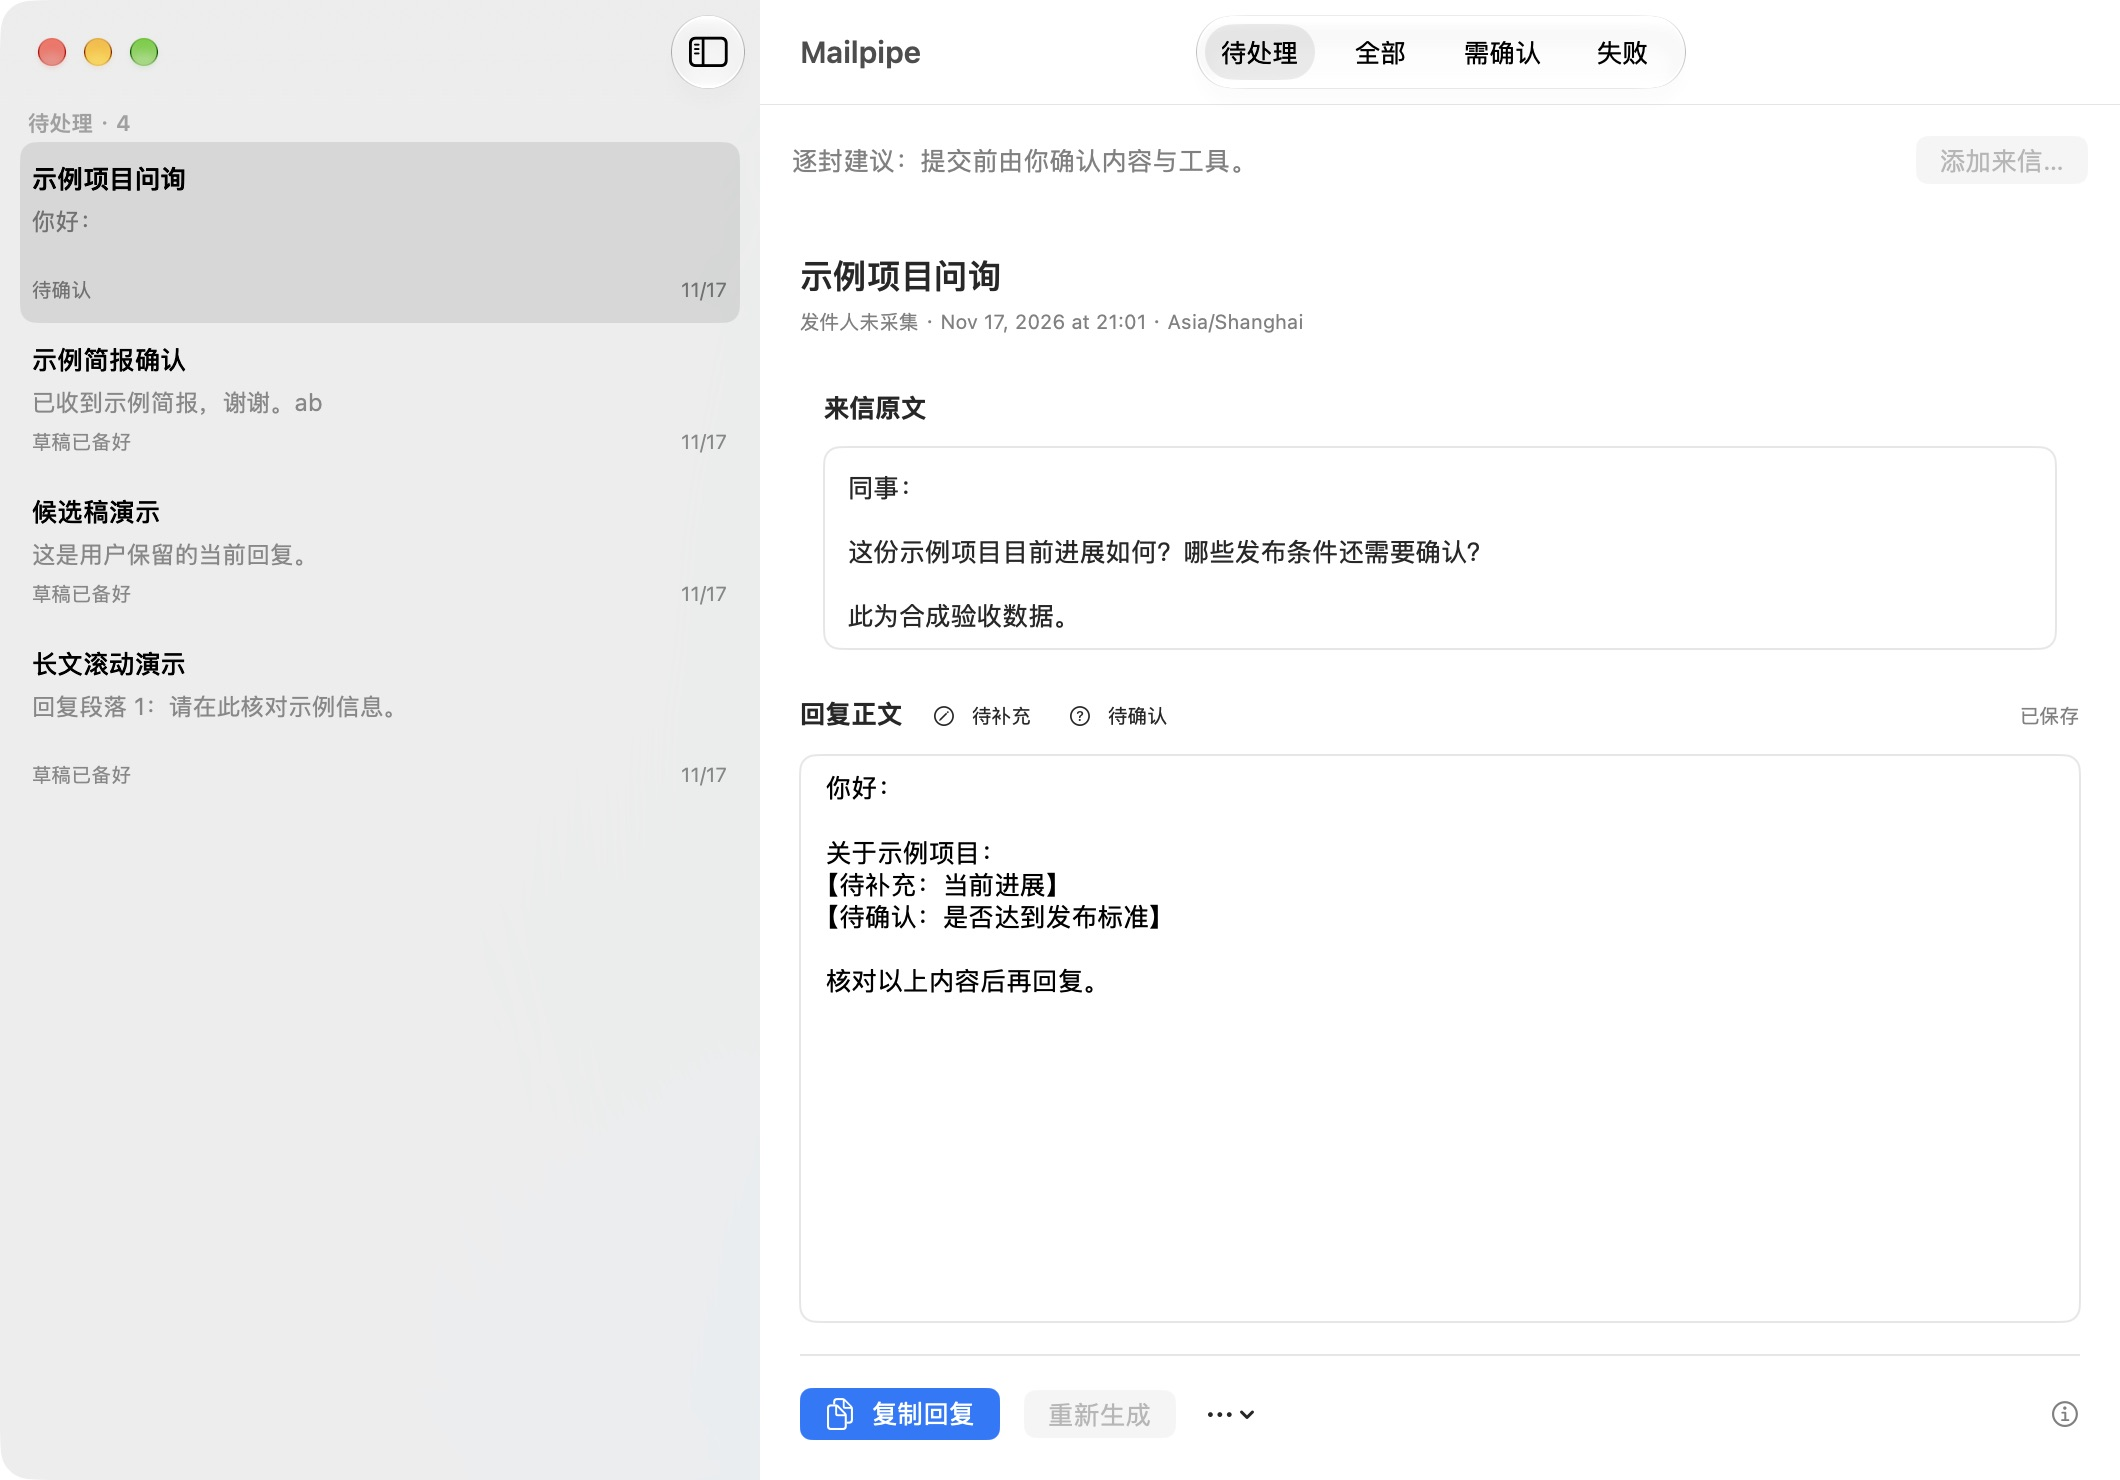
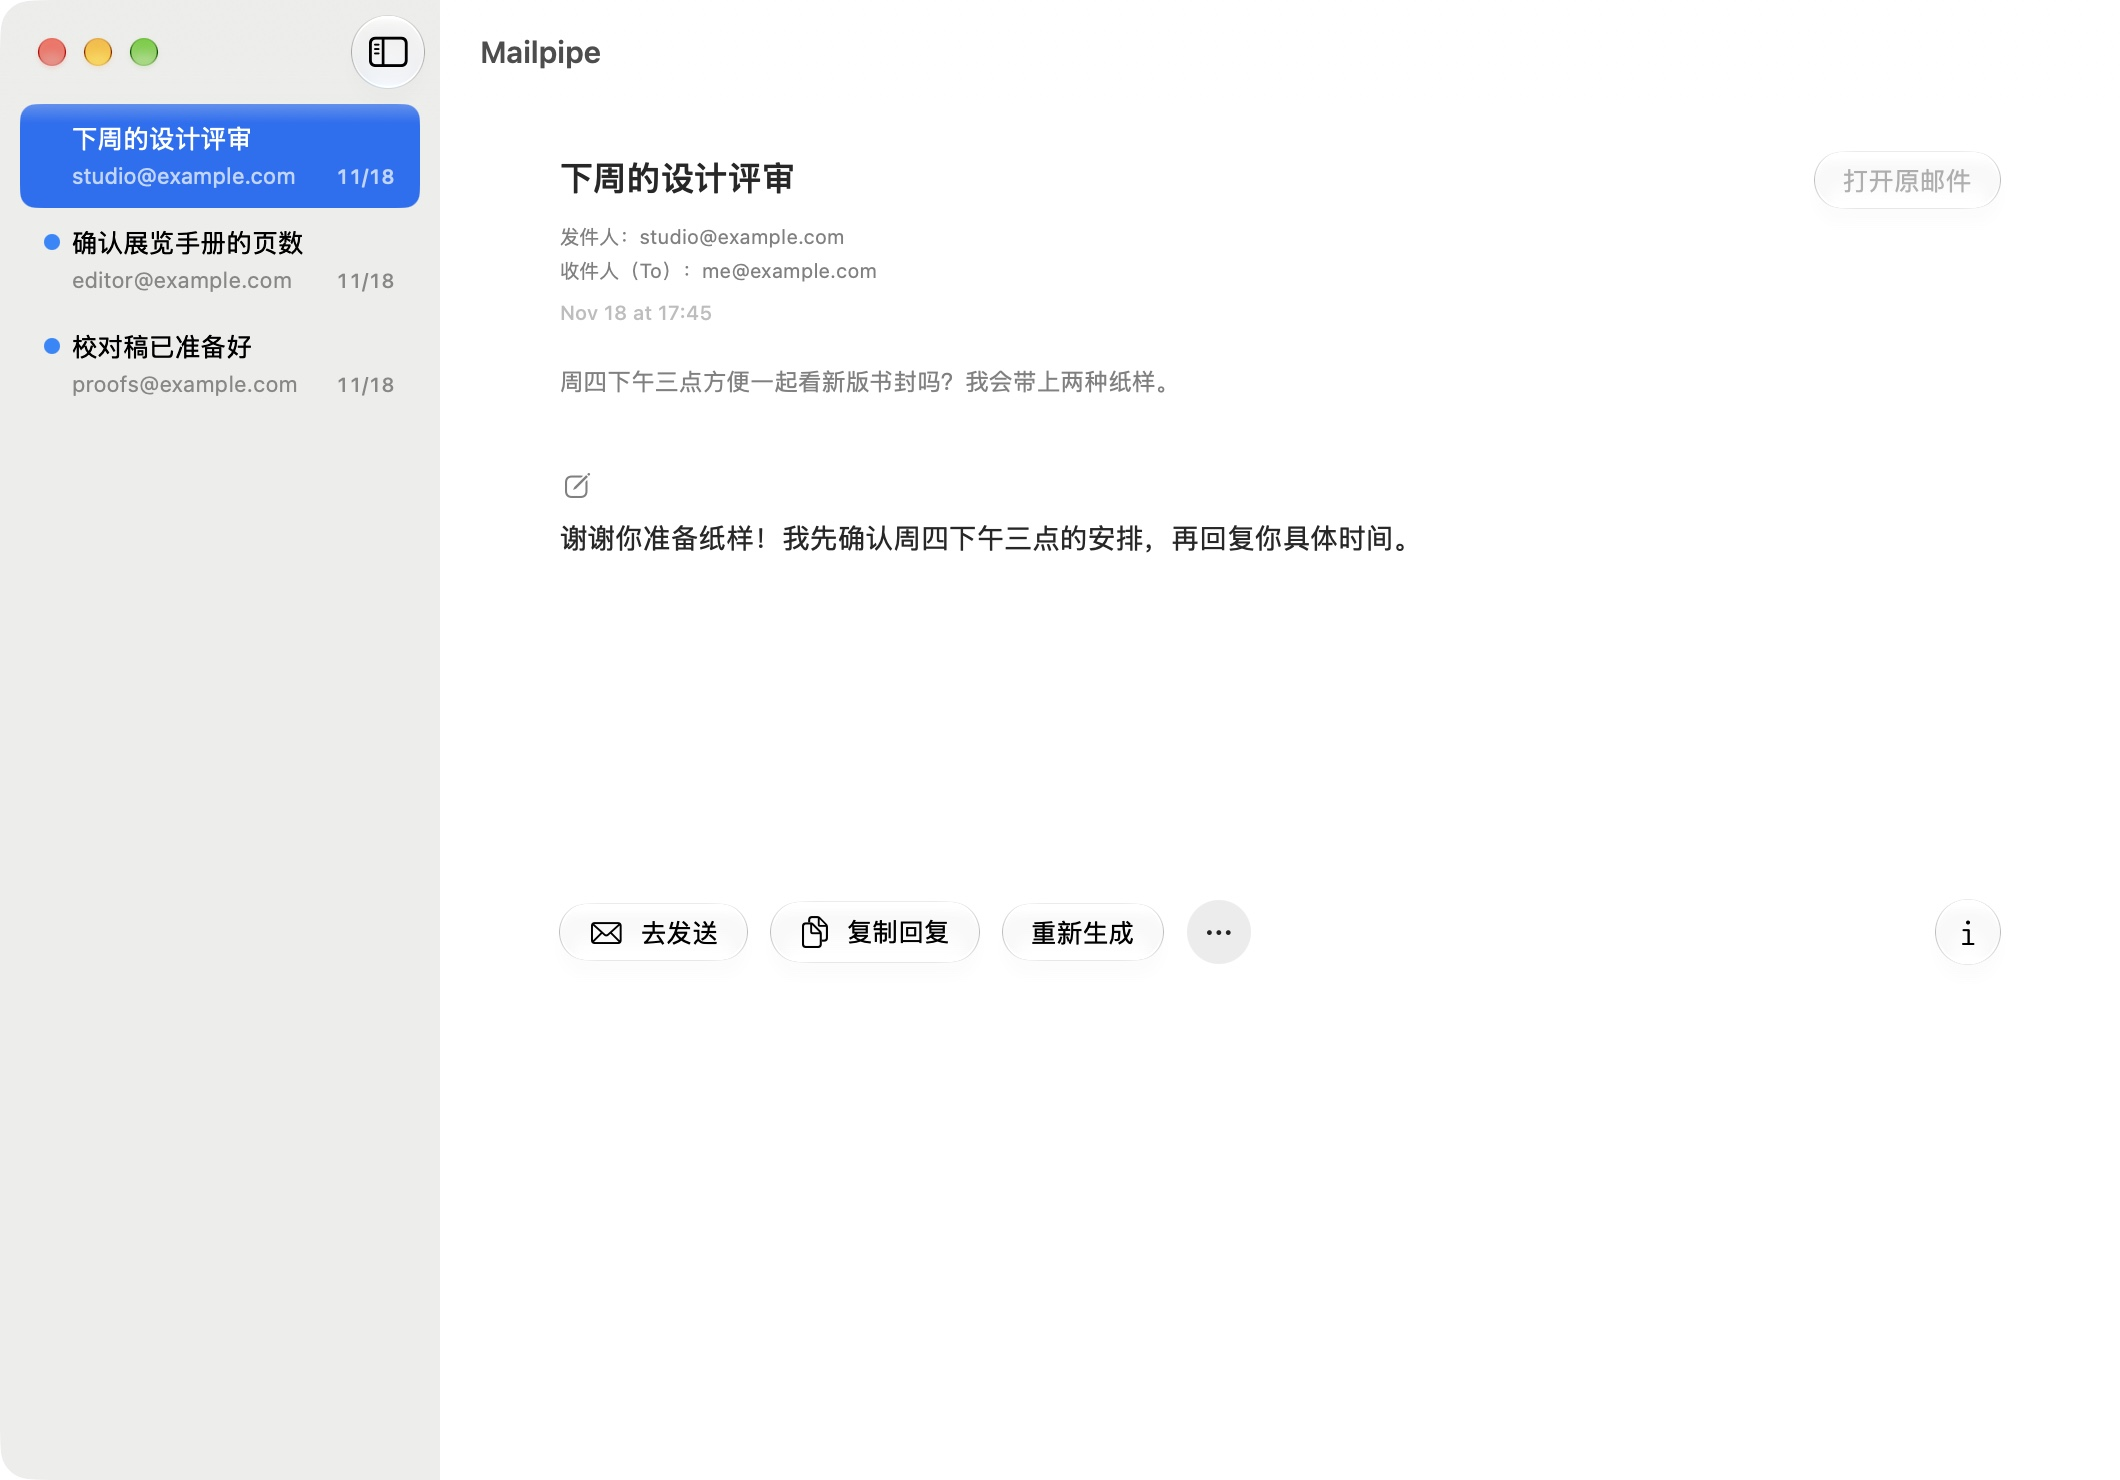
更新官网截图与 0.0.4 公证下载包

diff --git a/website/README.md b/website/README.md
@@ -6,8 +6,8 @@ Worker 在服务器生成中文首页、robots.txt 和 sitemap.xml。
 
 ## 图片来源
 
-- `public/workbench.jpg` 来自基线 `18998c3` 的实机工作台。使用独立队列和三条手写合成记录，仅捕获指定进程的窗口。
-- `public/detail.jpg` 来自[草稿详情实机验收](../docs/validation/2026-11-17-draft-detail-v12.md)中的 `toolbar-restored.jpg`。该次验收使用独立合成来信与草稿。
+- `public/workbench.jpg` 和 `public/detail.jpg` 来自 0.0.4 源码 `d5c05d8` 的原生工作台。前者展示来信列表，后者展示书封评审邀请及回复草稿。
+- 截图使用独立队列和三条手写合成记录。仅捕获预览 App 的窗口，示例地址均使用 example.com。
 - 图标来自仓库的 `design/icon/png/icon_128.png`。
 
 ## 字体
@@ -25,7 +25,7 @@ Framer 模板的照片底板只有未随仓库提供的库存图引用。
 
 ## 下载状态
 
-0.0.3（build 25）使用 Developer ID 签名并通过 Apple 公证。私有 R2 只归档；公开下载由现有 Pages 静态托管，不触发 Worker 或 R2 读取。
+0.0.4（build 26）使用 Developer ID 签名并通过 Apple 公证。私有 R2 只归档；公开下载由现有 Pages 静态托管，不触发 Worker 或 R2 读取。
 
 在仓库根目录执行 `node website/build-pages.mjs <含已公证App的ZIP> <全新输出目录>`，脚本会检查 SHA-256，并在发布之前生成完整首页 HTML、robots.txt 和 sitemap.xml。将输出目录的内容部署到现有 Pages 生产项目 mailpipe-official；不要额外添加 Worker、Functions 或 R2 公共端点。
 发布流程与验收门槛见[部署方法](../docs/deployment.md)。

diff --git a/docs/deployment.md b/docs/deployment.md
@@ -185,3 +185,17 @@ Mail 与更新后的宿主已恢复运行。
 
 本地测试包随后从 build 23 更新至 build 24。
 Dock 已能重开工作台，见[窗口验收](validation/2026-11-19-workbench-responsiveness.md#build-24-的-dock-重开)。
+
+## 0.0.4 文案更新
+
+2026-11-19 更新至 build 26，App 源码为 `d5c05d8`。
+本机沿用 Apple Development 签名。官网包使用 Developer ID 签名。
+宿主和扩展均包含 arm64 与 x86_64，权限与上一版分别一致。
+已备份本机旧包、队列和扩展暂存目录。
+更新后数据库三张表逐行一致。Mail 重启后，扩展仍已启用。
+27 项相关隔离测试通过。引导和官网截图使用合成来信。
+450 pt 窗口下已检查欢迎页、连接页和两种最终授权页。
+手动路径通过一次假 Agent 生成示例草稿。
+输入 823 字符，输出 298 字符，假工具未报告 token。
+真实模型调用 0 次，实付金额 0。
+官网 ZIP 已通过签名、公证票据和 Gatekeeper 校验。
